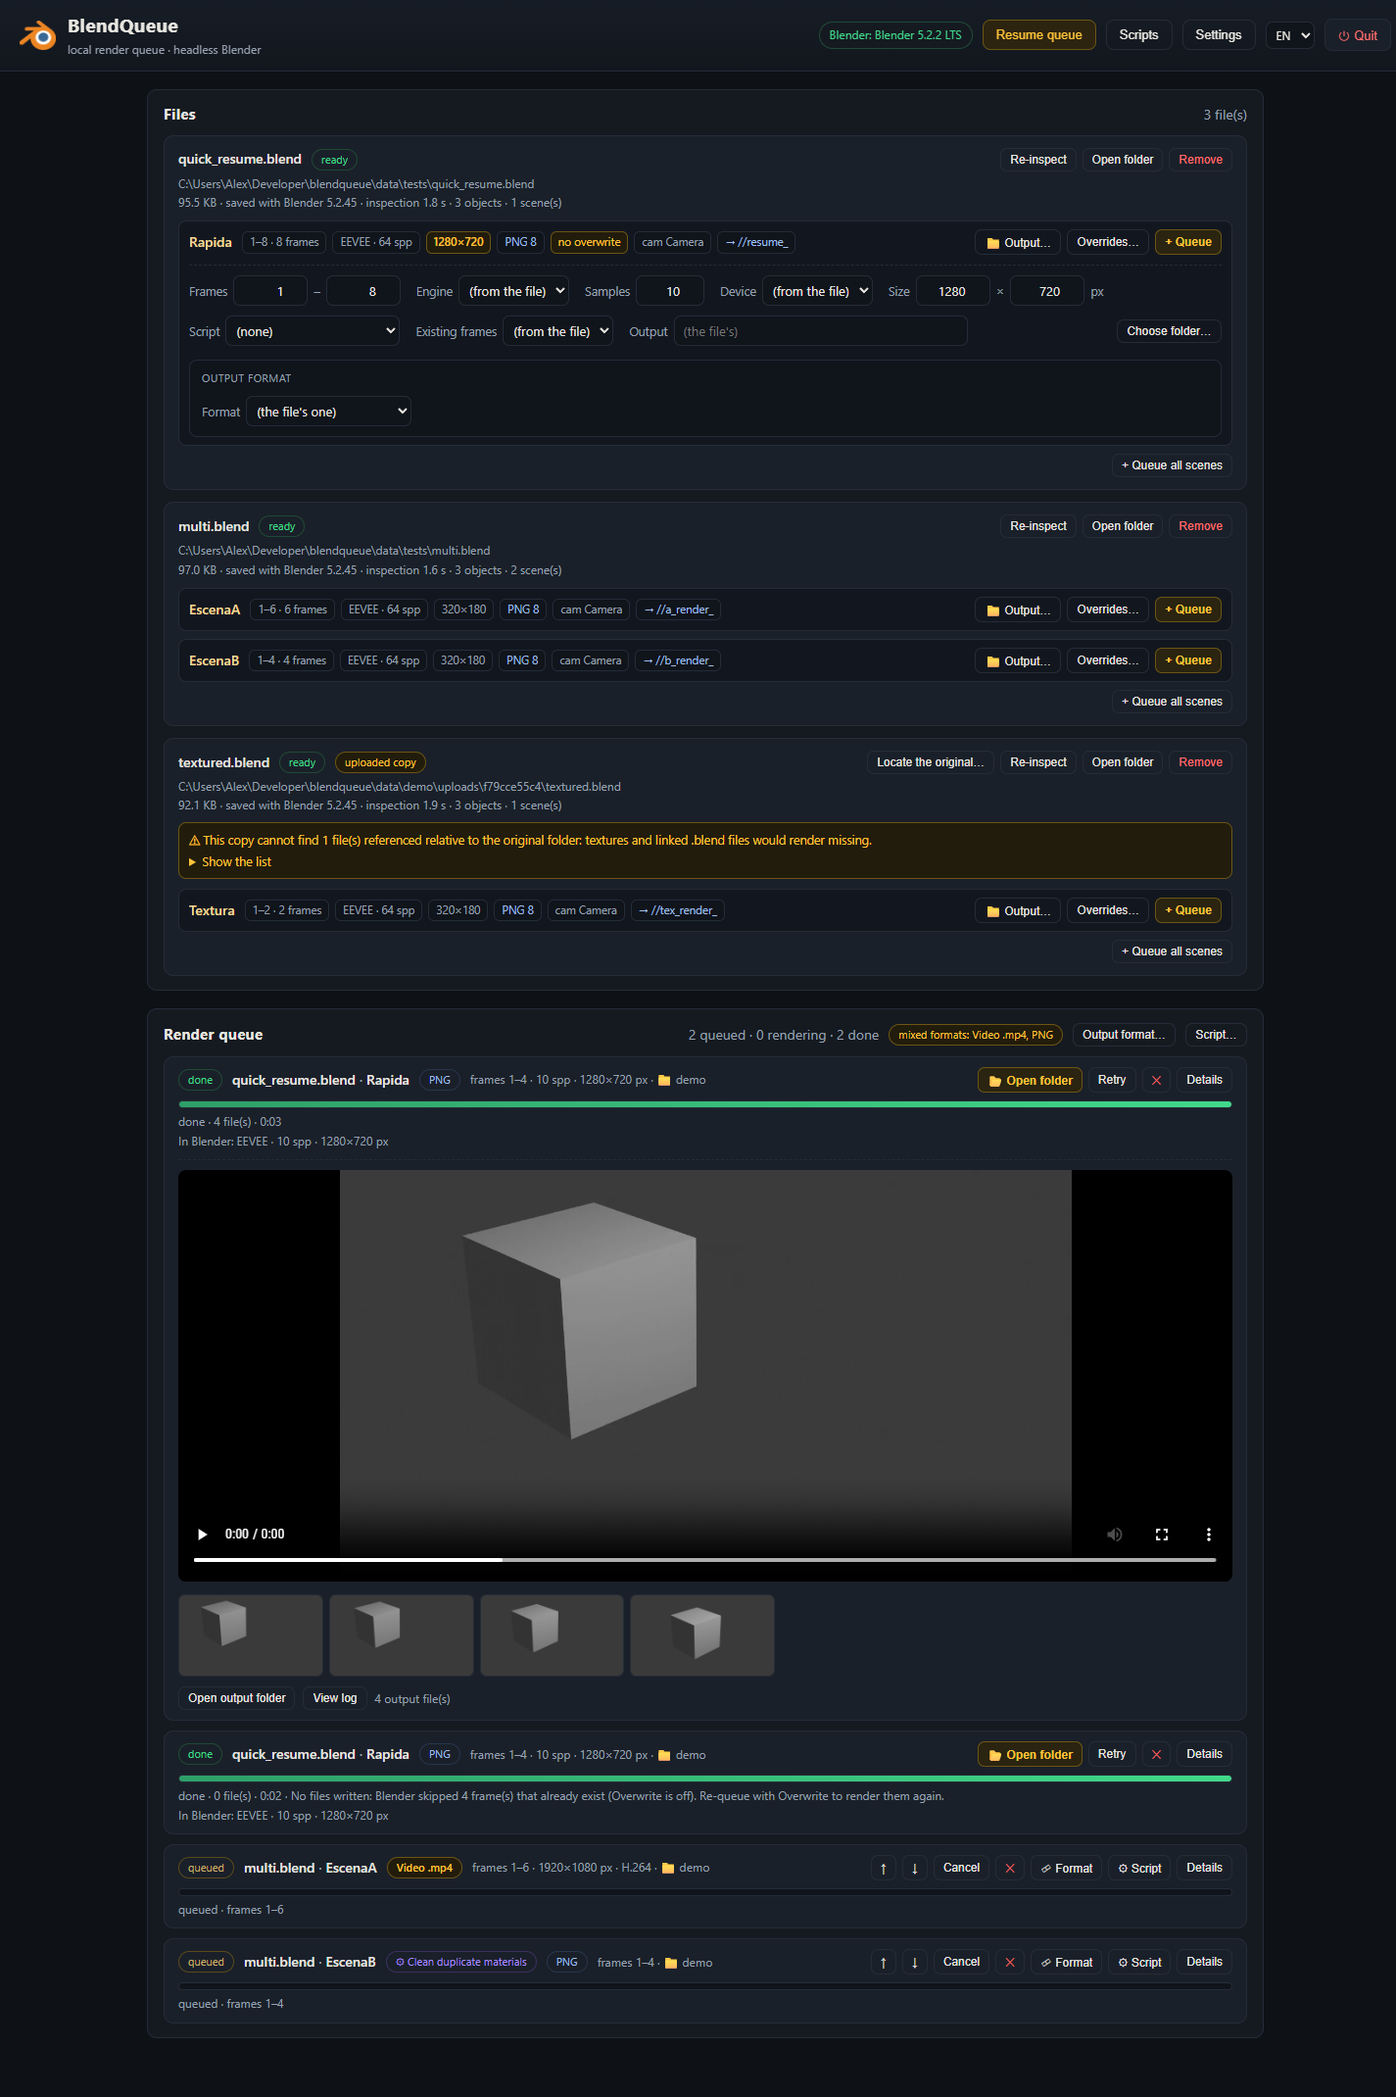
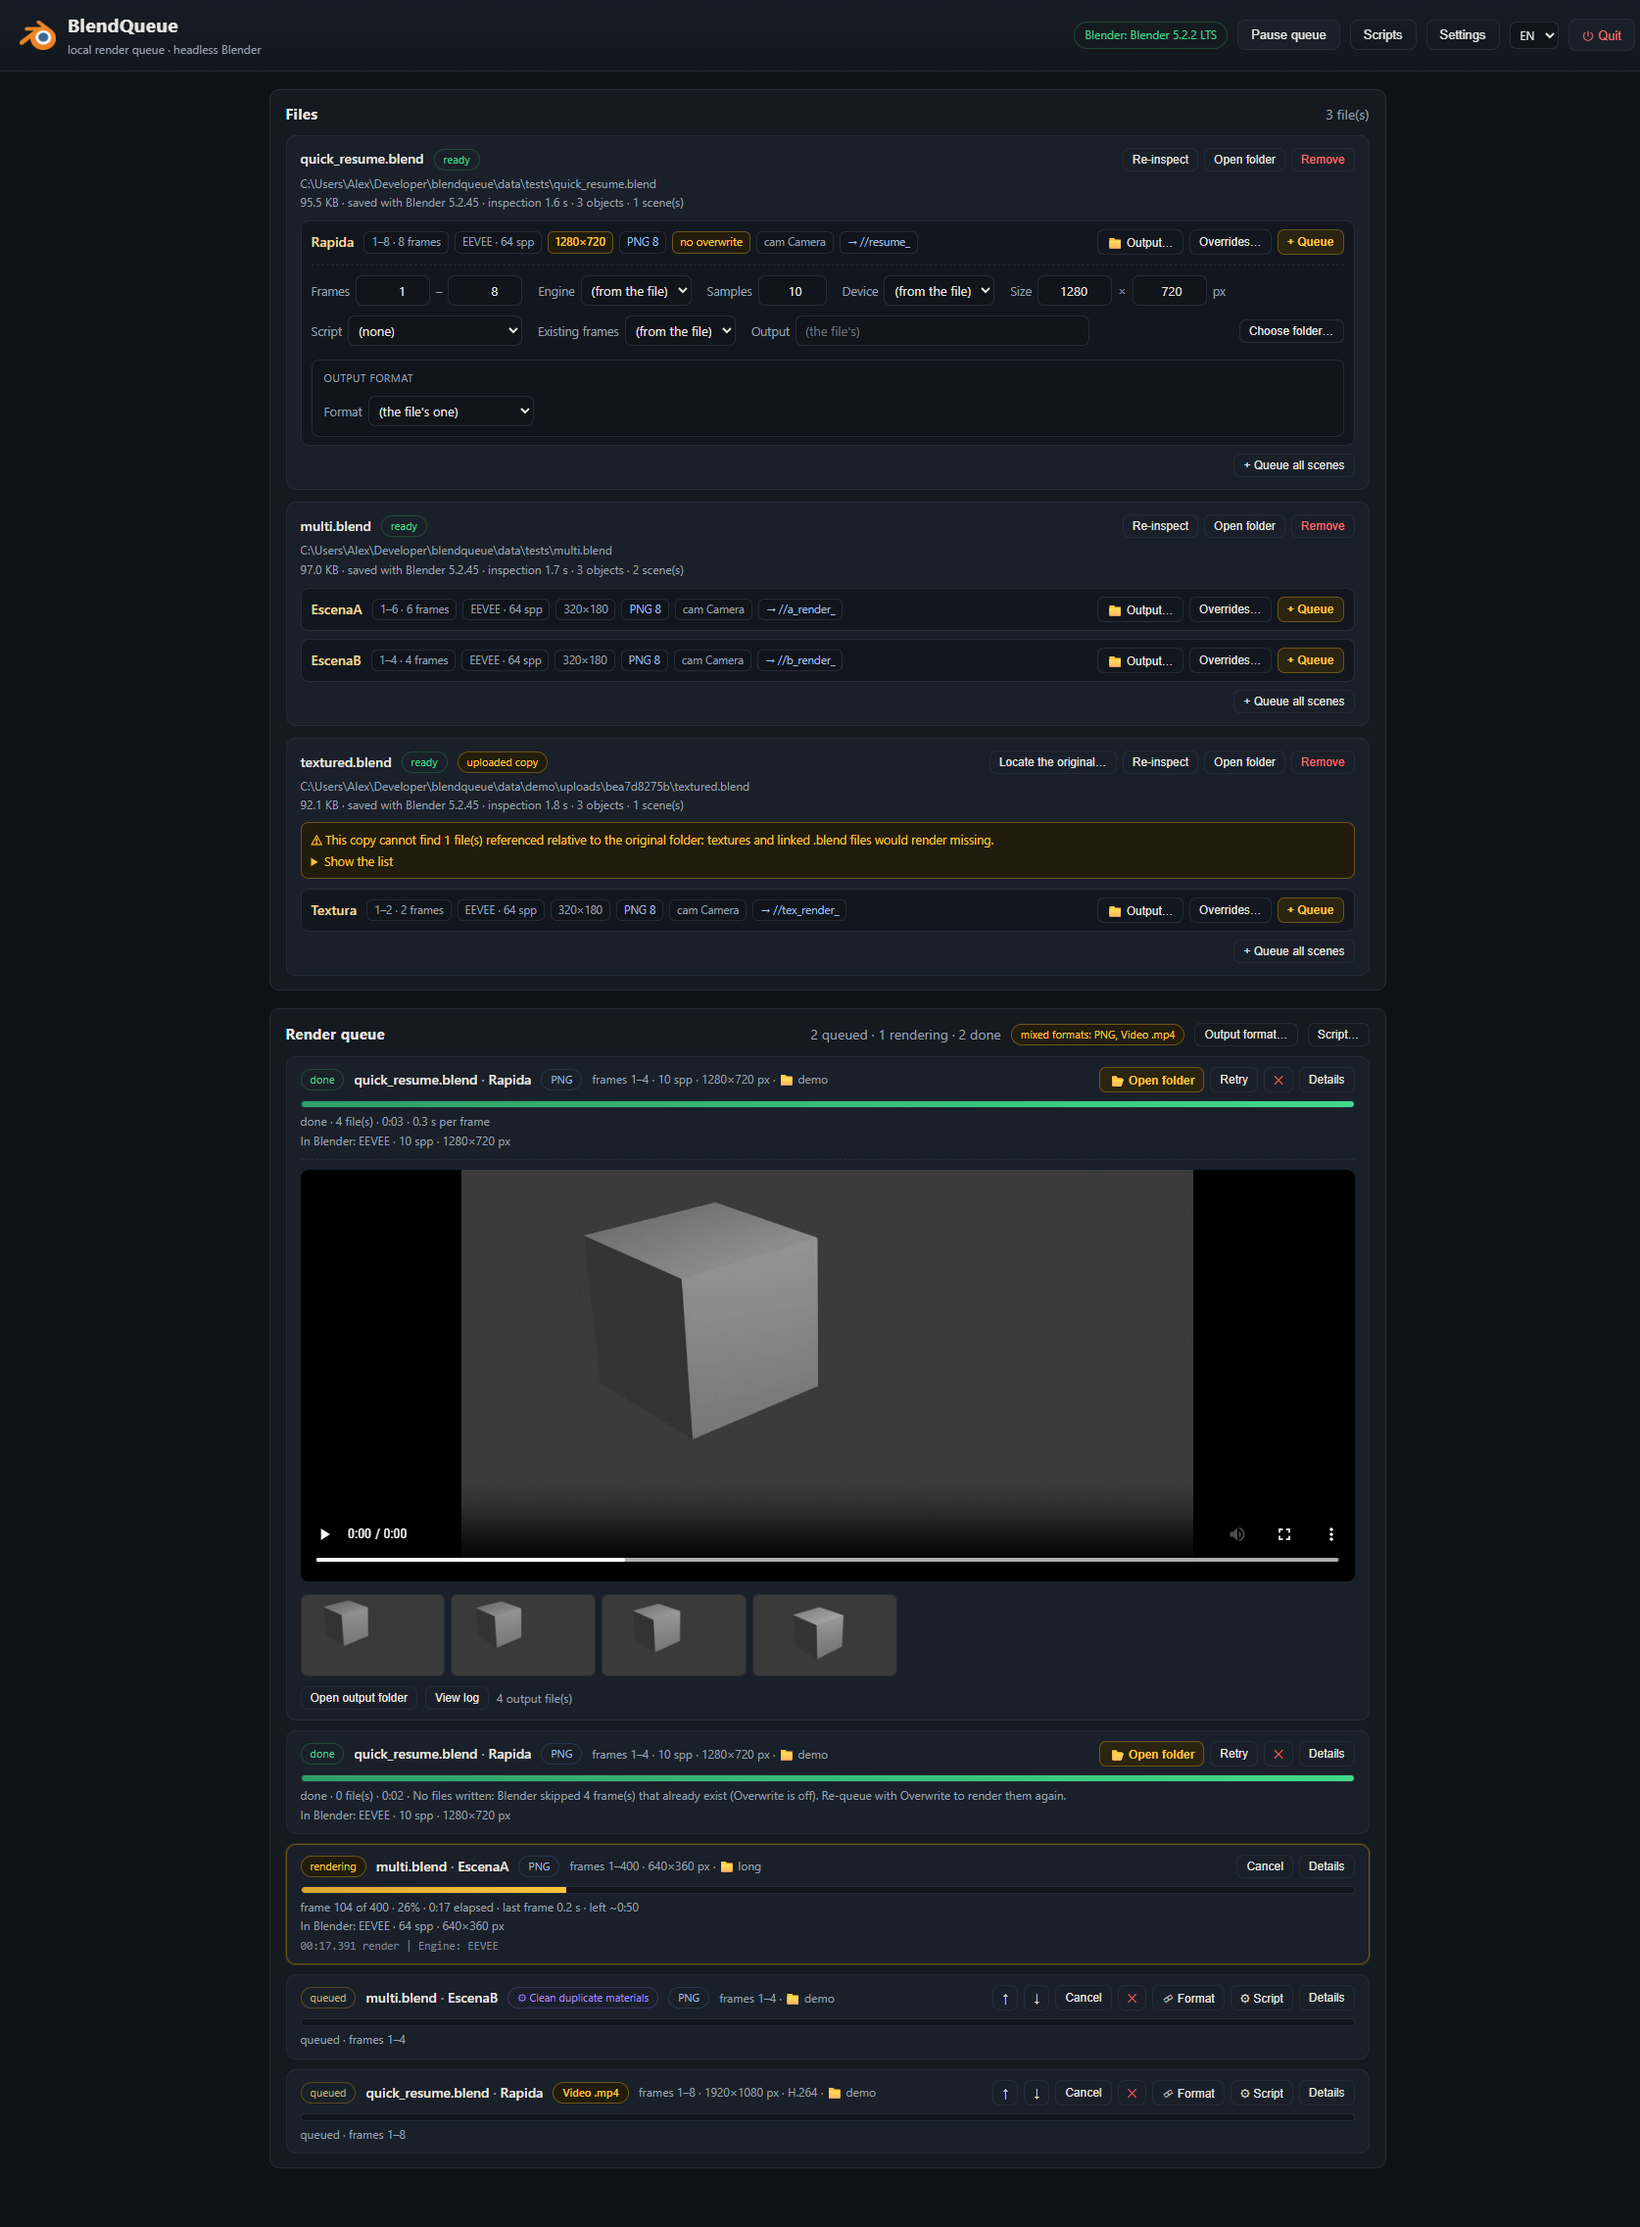
Don't time skipped frames; redo the README screenshot with frame times
Blender prints "Rendering frame N" even for frames it skips because they
exist, so a skipped sequence reported a time per frame. An image of a
sequence now counts at its "Saved:" line only; movies, which print no
"Saved:" per frame, still end a frame when the next one starts.

diff --git a/core/renderer.py b/core/renderer.py
@@ -467,49 +467,48 @@ class ProgressParser:
 class FrameClock:
     """How long each frame takes to come out, wall-clock.
 
-    A frame ends when the next one starts, which works the same for image
-    sequences and movies (movies print no "Saved:" line per frame). The last
-    frame ends at its "Saved:" line or, for a movie, when Blender exits.
+    An image of a sequence is done at its "Saved:" line. Blender prints
+    "Rendering frame N" even for frames it then skips because they exist, so
+    the start of the next frame proves nothing there. Movies print no "Saved:"
+    per frame: a movie frame ends when the next one starts, the last one when
+    Blender exits.
     """
 
-    def __init__(self):
+    def __init__(self, movie: bool = False):
+        self.movie = movie
         self.current = None       # frame being rendered
-        self.started = None       # when it started
-        self.first_started = None
-        self.last_end = None
-        self.last_saved = None
+        self.started = None       # when it started (None once it is counted)
         self.done = 0             # frames that came out
         self.last = None          # seconds the latest one took
+        self.total = 0.0
 
     def frame(self, number, now: float) -> None:
         if number is None or number == self.current:
             return
-        if self.current is not None:
+        if self.movie and self.started is not None:
             self._close(now)
         self.current, self.started = number, now
-        if self.first_started is None:
-            self.first_started = now
 
     def saved(self, now: float) -> None:
-        self.last_saved = now
+        # A second "Saved:" for the same frame (stereo views) is not another frame.
+        if not self.movie and self.started is not None:
+            self._close(now)
 
     def finish(self, now: float) -> None:
-        if self.current is None:
-            return
-        end = self.last_saved if self.last_saved and self.last_saved >= self.started else now
-        self._close(end)
-        self.current = None
+        if self.movie and self.started is not None:
+            self._close(now)
+        self.current = self.started = None
 
     def _close(self, end: float) -> None:
-        self.last = round(max(0.0, end - self.started), 2)
-        self.last_end = end
+        took = max(0.0, end - self.started)
+        self.last = round(took, 2)
+        self.total += took
         self.done += 1
+        self.started = None
 
     @property
     def average(self):
-        if not self.done:
-            return None
-        return round((self.last_end - self.first_started) / self.done, 2)
+        return round(self.total / self.done, 2) if self.done else None
 
 
 # Extensions Blender can produce as a movie (FFmpeg containers + AVI).

diff --git a/tests/api_smoke.py b/tests/api_smoke.py
@@ -350,6 +350,9 @@ def mode_overwrite():
     check("no outputs", not (j or {}).get("outputs"), (j or {}).get("outputs"))
     check("and it says why", "skipped" in str((j or {}).get("note") or "").lower(),
           (j or {}).get("note"))
+    p = (j or {}).get("progress") or {}
+    check("skipped frames are not timed as rendered ones",
+          not p.get("frames_done") and p.get("avg_frame_s") is None, p)
 
     print("== queueing with Overwrite renders them again")
     time.sleep(1.1)                      # so mtime can differ
@@ -426,6 +429,9 @@ def mode_size():
     check("Blender rendered 320x180", (ri.get("width"), ri.get("height")) == (320, 180), ri)
     log = req("GET", "/api/jobs/" + j["id"] + "/log?tail=400")["log"] if j else ""
     check("the log says why", "321x181 rendered as 320x180" in log)
+    p = (j or {}).get("progress") or {}
+    check("a movie's frames are timed too (no Saved: lines)",
+          p.get("frames_done") == 3 and (p.get("avg_frame_s") or 0) > 0, p)
     if outs:
         vs = video_size(outs[0])
         check("the file really is 320x180", vs in (None, (320, 180)), vs or "no ffmpeg: skipped")

diff --git a/core/worker.py b/core/worker.py
@@ -135,7 +135,7 @@ class RenderWorker:
             cmd = renderer.build_cmd(blender, job, scene_report, script_path)
             log_path = config.LOGS_DIR / f"job_{jid}.log"
             parser = renderer.ProgressParser(fstart, fend)
-            clock = renderer.FrameClock()
+            clock = renderer.FrameClock(movie=renderer.effective_is_movie(job, scene_report))
             outputs = []
 
             with open(log_path, "w", encoding="utf-8", errors="replace") as logf:
